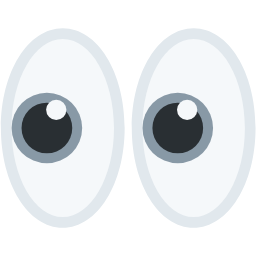
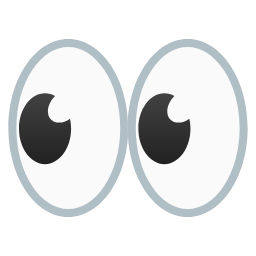
assets(auto-edit): emoji from Google Noto Emoji (Apache 2.0) instead of Twemoji (CC-BY); scripts/make_emoji.sh

Changed region(s): [[0.0, 0.0938, 1.0, 0.9062]]

diff --git a/shared/edit_director.py b/shared/edit_director.py
@@ -40,7 +40,7 @@ TIME_EFFECTS = ("freeze", "slowmo")                                         # cu
 EFFECTS = MOTION_EFFECTS + TIME_EFFECTS + ("emoji",)                        # what a plan item may be switched to
 RENDERED_EFFECTS = set(MOTION_EFFECTS) | set(TIME_EFFECTS) | {"emoji"}      # E3: emoji pops render too
 ARRIVES_IN: dict = {}
-# E3 assets (worker/assets, licences in worker/assets/LICENSES.md): Twemoji PNGs (CC-BY 4.0) + in-house SFX (CC0).
+# E3 assets (worker/assets, licences in worker/assets/LICENSES.md): Noto Emoji PNGs (Apache 2.0) + in-house SFX (CC0).
 EMOJI = {"😂": "1f602", "😭": "1f62d", "💀": "1f480", "🔥": "1f525", "😱": "1f631", "👀": "1f440", "🤯": "1f92f", "😎": "1f60e"}
 SFX = ("whoosh", "boom", "bass_hit", "ding", "record_scratch")   # "laugh" waits for a CC0 recording
 EMOJI_DUR = 1.4           # s on screen (pop in, hold, fade)
@@ -298,7 +298,7 @@ def time_extra(director: Optional[dict], keep) -> float:
 # ---- E3 render helpers (pure)
 
 def emoji_events(director: Optional[dict]) -> list[tuple]:
-    """[(t, twemoji code, side)] source seconds; consecutive pops alternate right/left so they don't stack."""
+    """[(t, emoji codepoint (file name), side)] source seconds; consecutive pops alternate right/left so they don't stack."""
     out = []
     for n, i in enumerate(_on(director, ("emoji",))):
         ch = (i.get("params") or {}).get("emoji") or PARAMS_FOR["emoji"]["emoji"]

diff --git a/tests/test_overlays_sfx.py b/tests/test_overlays_sfx.py
@@ -17,7 +17,7 @@ class Assets(unittest.TestCase):
         for name in D.SFX:
             self.assertTrue((ASSETS / "sfx" / f"{name}.wav").is_file(), name)
             self.assertIn(f"{name}.wav", lic)
-        self.assertIn("CC-BY 4.0", lic)
+        self.assertIn("Noto Emoji", lic); self.assertIn("Apache License 2.0", lic); self.assertNotIn("Twemoji", lic)
         self.assertIn("watermark.png", lic)
 
 

diff --git a/worker/assets/LICENSES.md b/worker/assets/LICENSES.md
@@ -3,7 +3,7 @@
 | File(s) | Source | Licence |
 |---|---|---|
 | `watermark.png` | Motion Klip (user-supplied) | Campaign watermark supplied by Motion Klip to participating clippers for use on campaign clips. Not owned by ClipFlow; not for redistribution. Fallback only (CLAUDE.md, Watermark). |
-| `emoji/*.png` (1f602 😂, 1f62d 😭, 1f480 💀, 1f525 🔥, 1f631 😱, 1f440 👀, 1f92f 🤯, 1f60e 😎) | Twemoji 15.1.0 graphics, https://github.com/jdecked/twemoji (SVG rendered to 256 px PNG) | **CC-BY 4.0**, © Twitter, Inc and other contributors. Attribution: "Emoji graphics by Twemoji, licensed under CC-BY 4.0", https://creativecommons.org/licenses/by/4.0/ |
+| `emoji/*.png` (1f602 😂, 1f62d 😭, 1f480 💀, 1f525 🔥, 1f631 😱, 1f440 👀, 1f92f 🤯, 1f60e 😎) | Google Noto Emoji, tag `v2026-09-24-unicode18_0`, https://github.com/googlefonts/noto-emoji/tree/v2026-09-24-unicode18_0/2D/svg (SVG rendered to 256 px PNG by `scripts/make_emoji.sh`) | **Apache License 2.0** (`2D/svg/LICENSE`), © 2013 Google, Inc. No on-video credit required (owner 2026-10-13); keep this notice with the files. https://www.apache.org/licenses/LICENSE-2.0 |
 | `sfx/whoosh.wav`, `sfx/boom.wav`, `sfx/bass_hit.wav`, `sfx/ding.wav`, `sfx/record_scratch.wav` | Generated in-house by `scripts/make_sfx.sh` (ffmpeg synthesis, no samples) | Original work, released **CC0 1.0** (public domain) |
 
 New SFX: CC0 sources only (owner rule), one row here per file with source URL, author and licence.

diff --git a/CLAUDE.md b/CLAUDE.md
@@ -259,7 +259,7 @@ Auto Edit render order (191–196): `render_vertical` layout → `zoom_stage` = 
 markers) → look → emoji pops, all BEFORE watermark + captions (text never zooms) → `apply_cuts` (freeze/slow-mo warps)
 → `mix_sfx` → `normalize_loudness` (per-clip `audio.loud` = "Loud & punchy"). Plan = `edit_spec.director`
 (`shared/edit_director.py`); packs = `shared/style_packs.py`. Bundled assets: `worker/assets/LICENSES.md` — SFX CC0 only;
-emoji are Twemoji CC-BY 4.0 (attribution placement on published clips: owner decision pending). Silence trim and
+emoji are Google Noto Emoji, Apache 2.0 (no on-video credit; `scripts/make_emoji.sh`). Silence trim and
 zoom stay unwired (opt-in later via the Audio/Effects tabs). Cuts change the timeline: re-time
 words/markers with `retention.TimeMap` built from the same keep segments.
 
